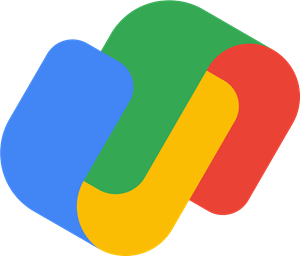
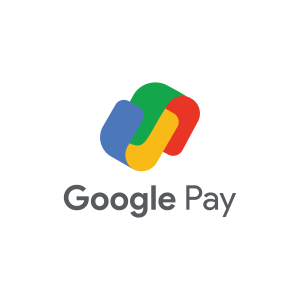
payment

diff --git a/frontend/src/Component/Homepage/Footer/Footer.js b/frontend/src/Component/Homepage/Footer/Footer.js
@@ -159,7 +159,10 @@ const Footer = () => {
                                     <p className="my-3"><small>Secured UPI Payment Gateways</small></p>
                                     {/* <img className="" src="assets/imgs/theme/payment-method.png" alt="" style="visibility: visible;"> */}
                                     {/* <p><strong>Gpay | Phonepe</strong></p> */}
-                                    <img src="/assets/images/google-pay.png" alt="Android App from Playstore" width="48" height="48" />
+                                    <img src="/assets/images/google-pay.png" alt="Android App from Playstore" width="80" height="80" />
+                                    <img src="/assets/images/phone-pe.png" alt="Android App from Playstore" width="50" height="50" />
+                                    <img src="/assets/images/bhim.png" alt="Android App from Playstore" width="70" height="70" />
+                                    <img src="/assets/images/visa.png" alt="Android App from Playstore" width="75" height="19" />
                                 </div>
                             </div>
                         </div>

diff --git a/frontend/src/Component/Homepage/pages/Home/HomeCarousel/HomeCarousel.js b/frontend/src/Component/Homepage/pages/Home/HomeCarousel/HomeCarousel.js
@@ -132,6 +132,7 @@ const HomeCarousel = () => {
                 </button>
             </div>
         </section>
+        
     );
 }
 
